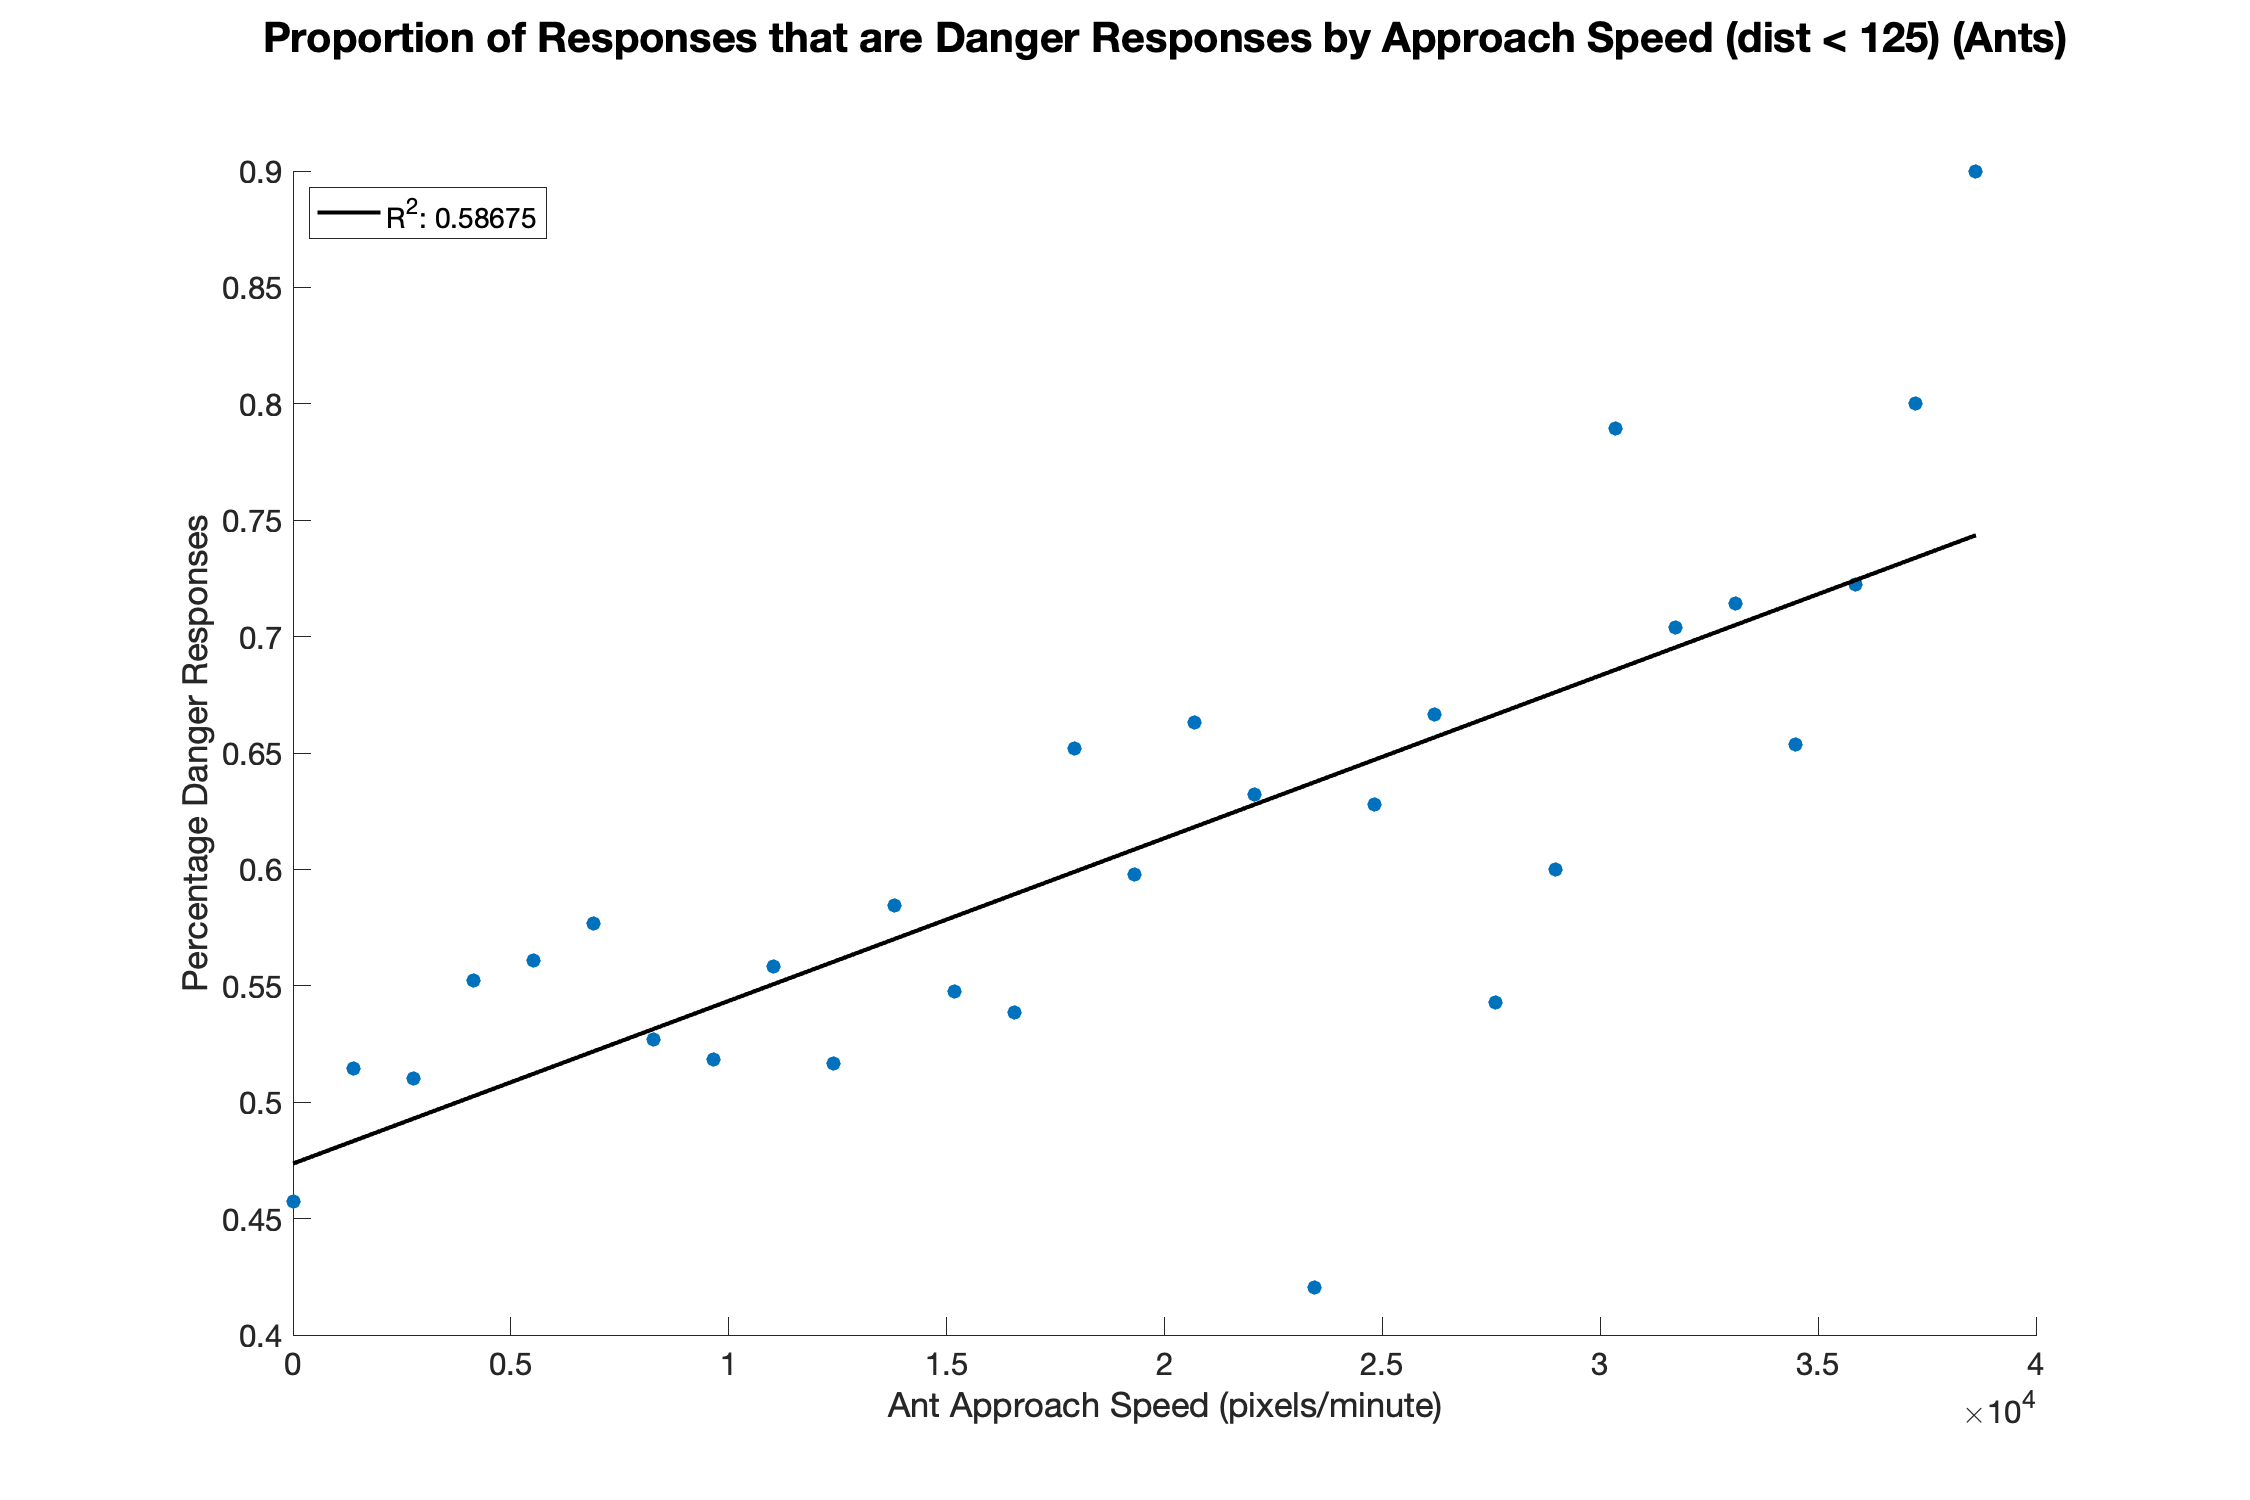
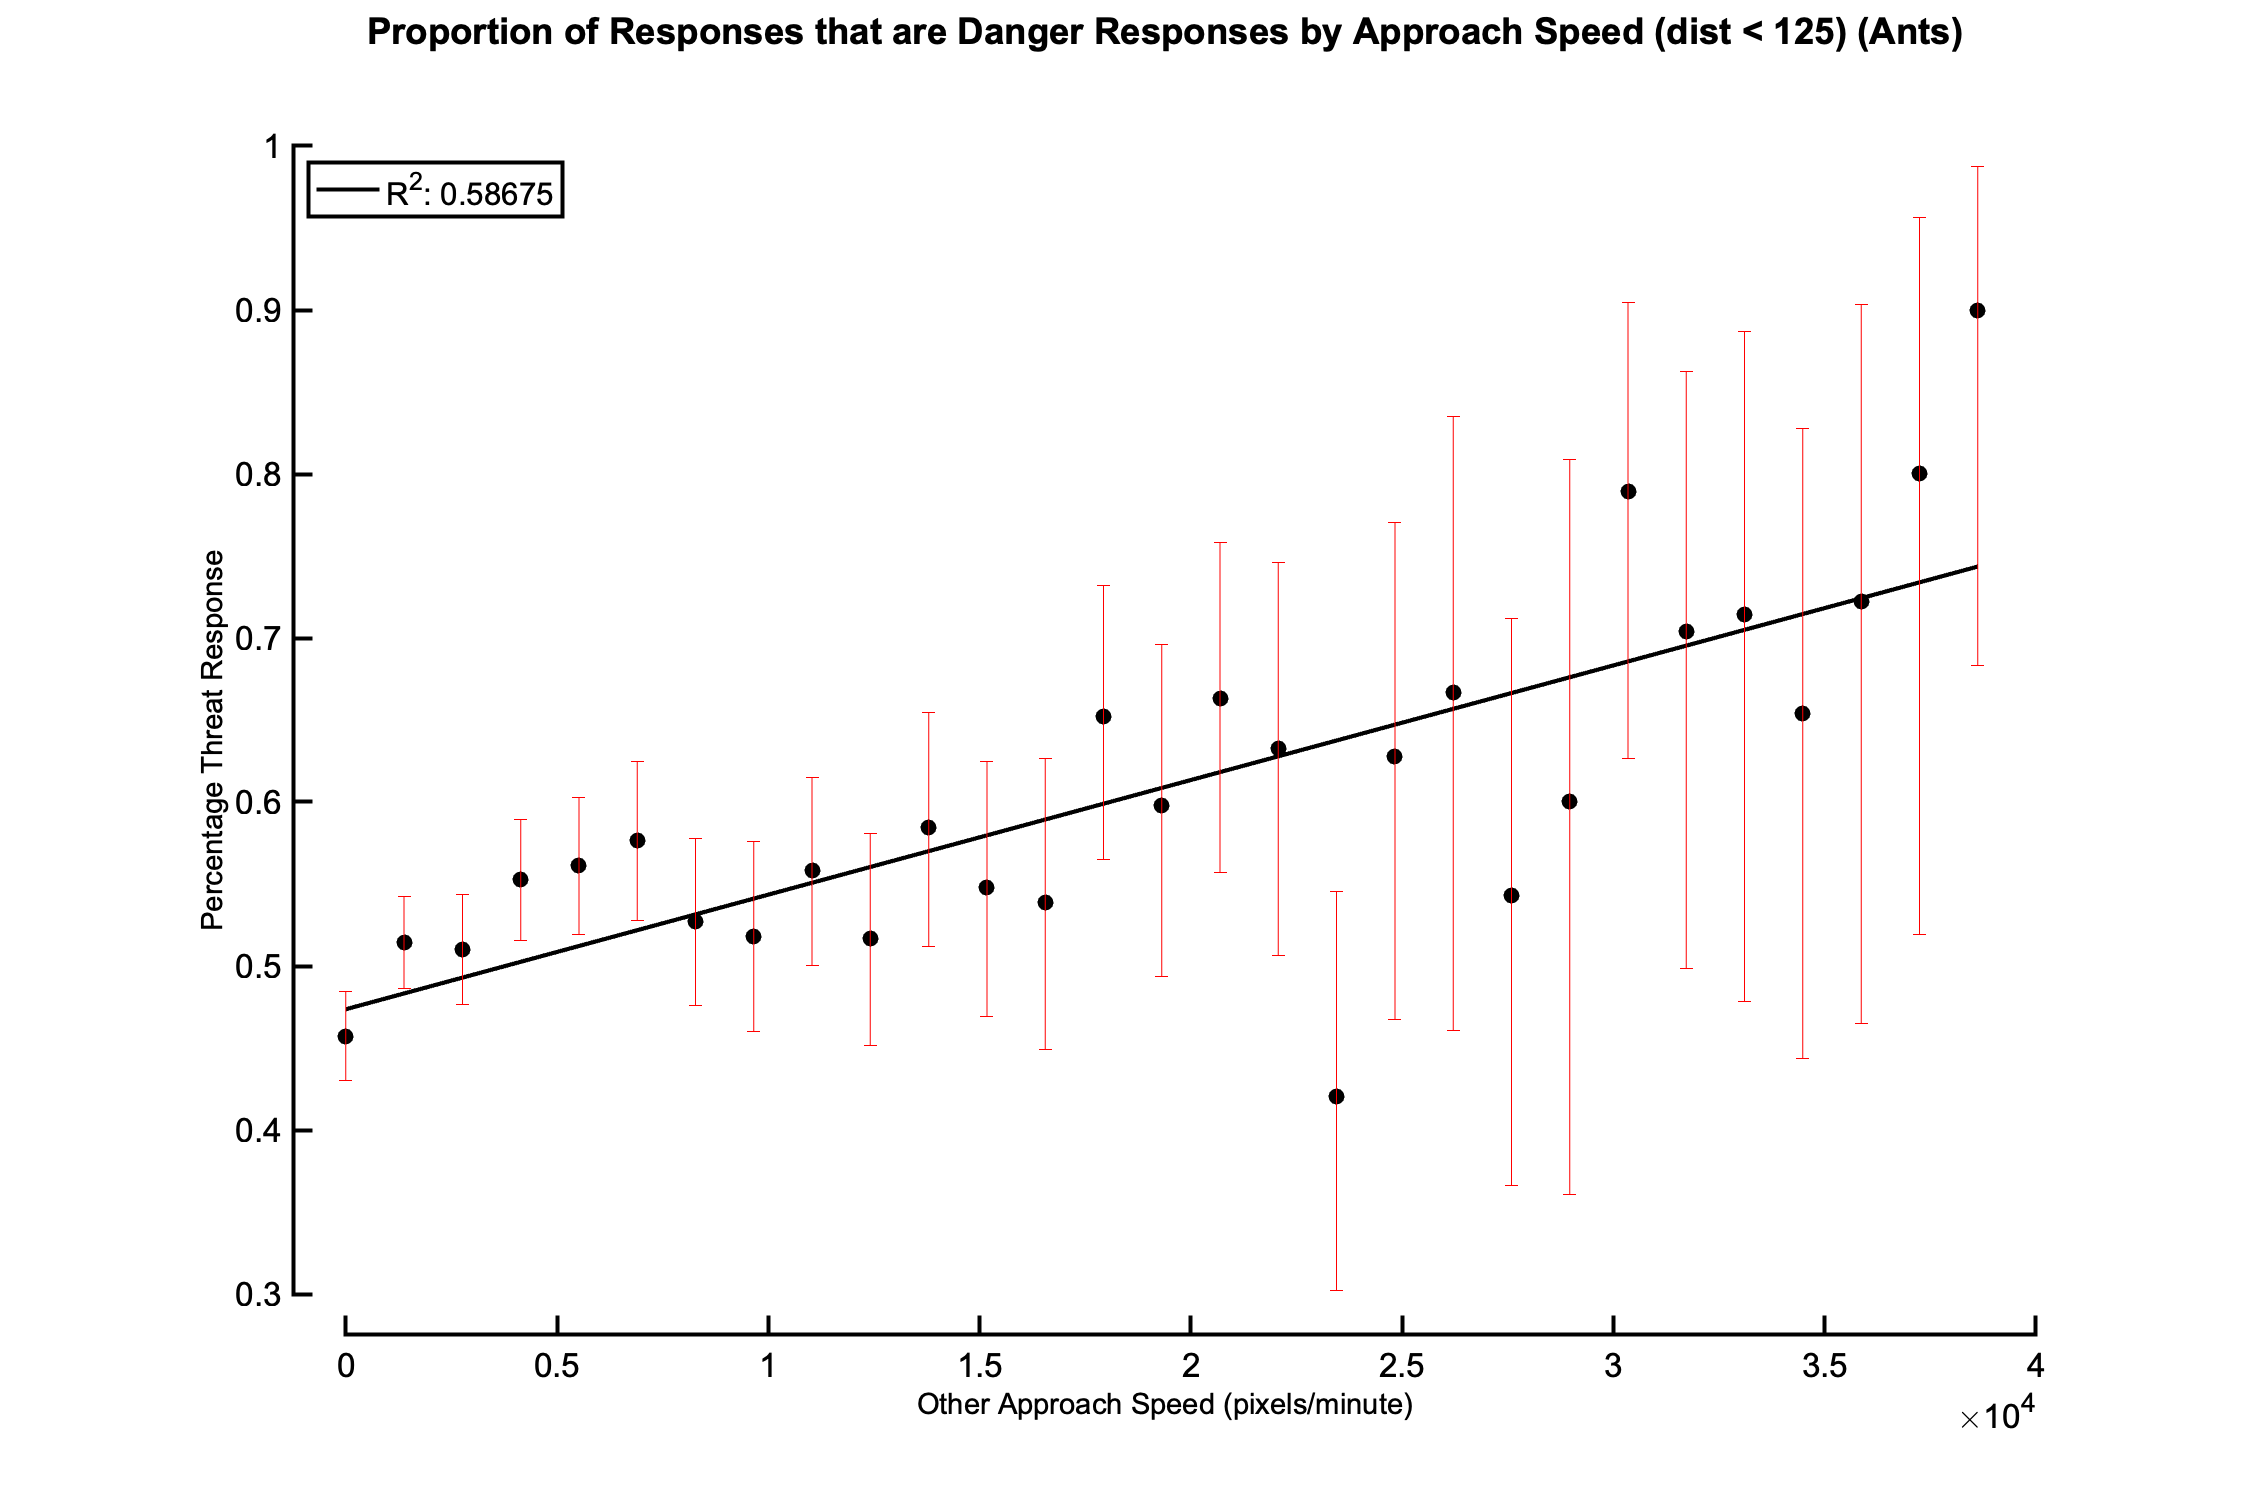
new

diff --git a/MATLAB Code/flex_vs_flee_heatmap.m b/MATLAB Code/flex_vs_flee_heatmap.m
@@ -1,6 +1,10 @@
 %We divide approach speed and orientation into 10 equal subdivisions each. 
 %At each combination of approach speed and orientation, how likely is a
 %beetle to flex vs flee?
+ant = ('Ant_long_long_interactions');
+other = ('Other_long_long_interactions')
+%pretty figure settings
+ 
 
 flex_interactions = ((flex_during < 1.75  | min_flex<1.75) & dal_velocity_after <= 20000);
 flee_interactions = (dal_velocity_after > 20000 & (flex_during >= 1.75 & flex_after >= 1.75 & min_flex >= 1.75));
@@ -19,15 +23,15 @@ for i = 1:29
     ori(i,:) = orientation > orientation_divs(i) & orientation <= orientation_divs(i+1);
     total_danger_response_app(i) = sum(flex_interactions & app(i,:)) + sum(flee_interactions & app(i,:)) + sum(both_interactions & app(i,:));
     total_app(i) = sum(app(i,:));
-    total_pos = sum(app(i,:) & orientation > 0);
-    total_neg = sum(app(i,:) & orientation <= 0);
+    total_pos(i) = sum(app(i,:) & orientation > 0);
+    total_neg(i) = sum(app(i,:) & orientation <= 0);
     flex_percentage_app(i) = sum(app(i,:) & (flex_interactions | both_interactions))/total_danger_response_app(i);
     flee_percentage_app(i) = sum(app(i,:)  &  (flee_interactions | both_interactions))/total_danger_response_app(i);
     both_percentage_app(i) = sum(app(i,:) & both_interactions)/total_danger_response_app(i);
     neither_percentage_app(i) = sum(app(i,:) & neither_interactions)/total_app(i);
     danger_percentage_app(i) = sum(app(i,:)  & ~neither_interactions)/total_app(i);
-    danger_percentage_app_pos(i) = sum(app(i,:)  & ~neither_interactions & orientation > 0)/total_pos;
-    danger_percentage_app_neg(i) = sum(app(i,:)  & ~neither_interactions & orientation <= 0)/total_neg;
+    danger_percentage_app_pos(i) = sum(app(i,:)  & ~neither_interactions & orientation > 0)/total_pos(i);
+    danger_percentage_app_neg(i) = sum(app(i,:)  & ~neither_interactions & orientation <= 0)/total_neg(i);
     flexes_by_app(i) = sum(app(i,:) & flex_interactions);
     flees_by_app(i) = sum(app(i,:) & flee_interactions);
     boths_by_app(i) = sum(app(i,:) & both_interactions);
@@ -61,67 +65,29 @@ all_by_app = [flex_percentage_app; flee_percentage_app; both_percentage_app; nei
 % end
 % surf(approach_divs(1:9),orientation_divs(1:9),flee_percentage)
 % colorbar
-set(0,'defaultAxesFontSize',15)
-fig = figure('units','inch','position',[0,0,15,10]);
-% danger_percentage_app_pos(isnan(danger_percentage_app_pos)) = 0;
-% danger_percentage_app_neg(isnan(danger_percentage_app_neg)) = 0;
-% subplot(1,2,1)
-% scatter(approach_divs(1:29),danger_percentage_app_pos, 50,'MarkerEdgeColor', 'red', 'MarkerFaceColor','red')
-% coeffs = polyfit(approach_divs(1:29), danger_percentage_app_pos,1);
-% fit = polyval(coeffs,[approach_divs(1),approach_divs(29)]);
-% grid on
-% hold on
-% plot([approach_divs(1),approach_divs(29)], fit, 'LineWidth' ,2,'Color','black')
-% title('Positive Orientation')
-% xlabel('Ant Approach Speed (pixels/minute)')
-% ylabel('Percentage Danger Response')
-% 
-% subplot(1,2,2)
-% scatter(approach_divs(1:29), danger_percentage_app_neg, 50,'MarkerEdgeColor', 'blue',"MarkerFaceColor",'blue')
-% coeffs = polyfit(approach_divs(1:29), danger_percentage_app_neg,1);
-% fit = polyval(coeffs,[approach_divs(1),approach_divs(29)])
-% grid on
-% hold on
-% plot([approach_divs(1),approach_divs(29)], fit, 'LineWidth' ,2,'Color','black')
-% title('Negative Orientation')
-% xlabel('Ant Approach Speed (pixels/minute)')
-% ylabel('Percentage Danger Response')
-% 
-% 
-% titles = "Proportion of Danger Responses by Ant Approach Speed (dist < 45), Divided by Orientation (Ants)"
-% sgtitle(titles,'FontSize',20)
 
+fig = figure('units','inch','position',[0,0,20,10]);
+danger_percentage_app_pos(isnan(danger_percentage_app_pos)) = 0;
+danger_percentage_app_neg(isnan(danger_percentage_app_neg)) = 0;
 
-scatter(approach_divs(1:29),danger_percentage_app,50,'filled')
-
-
-[coeffs,S] = polyfit(approach_divs(1:29), danger_percentage_app,1);
-fit = polyval(coeffs,approach_divs(1:29));
-SStot = sum((danger_percentage_app-mean(danger_percentage_app)).^2);                   
-SSres = sum((danger_percentage_app-fit).^2);                    
+subplot(1,2,1)
+% danger_percentage_app_pos([18,26]) = NaN
+scatter(approach_divs(~isnan(danger_percentage_app_pos)),danger_percentage_app_pos(~isnan(danger_percentage_app_pos)), 60,'MarkerEdgeColor', 'red', 'MarkerFaceColor','red')
+coeffs = polyfit(approach_divs((~isnan(danger_percentage_app_pos))), danger_percentage_app_pos(~isnan(danger_percentage_app_pos)),1);
+fit = polyval(coeffs,approach_divs(~isnan(danger_percentage_app_pos)));
+SStot = sum((danger_percentage_app_pos(~isnan(danger_percentage_app_pos))-mean(danger_percentage_app_pos(~isnan(danger_percentage_app_pos)))).^2);                   
+SSres = sum((danger_percentage_app_pos(~isnan(danger_percentage_app_pos))-fit).^2);                    
 Rsq = 1-SSres/SStot; 
-
-hold on
-plot(approach_divs(1:29), fit, 'LineWidth' ,2,'Color','black')
-L = legend('',['R^2: ' , num2str(Rsq)], 'Location','northwest', 'FontSize', 15);
+L = legend(['R^2: ' , num2str(Rsq)], 'Location','northwest', 'FontSize', 15);
 L.AutoUpdate = 'off';
-hold off
-
-[phat, pci] = binofit(total_danger_response_app, total_app,0.05)
-CI_max = pci(:,2) - danger_percentage_app';
-CI_min =  danger_percentage_app' - pci(:,1);
-
-
+ylim([0.2,1])
+grid on
 hold on
-errorbar(approach_divs(1:29),danger_percentage_app,CI_min,CI_max,'LineStyle','none')
-hold off
-
-titles = "Proportion of Responses that are Danger Responses by Approach Speed (50 < dist < 125) (Ants)"
-title(titles,newline,'FontSize',20)
+plot(approach_divs(~isnan(danger_percentage_app_pos)), fit, 'LineWidth' ,2,'Color','black')
+title('Positive Orientation')
 
 
- %pretty figure settings
-    offsetAxes(gca);
+   offsetAxes(gca);
     set(gca, ...
         'LineWidth', 2,...
         'XColor', 'k',...
@@ -129,8 +95,71 @@ title(titles,newline,'FontSize',20)
         'FontName', 'Arial',...
         'FontSize', 16,...
         'Box', 'off');
-    xlabel('Flex Percentage', 'FontSize', 14);
-    ylabel('Orientation', 'FontSize', 14);
+    xlabel('Ant Approach Speed (pixels/minute)', 'FontSize', 14);
+    ylabel('Percentage Threat Response', 'FontSize', 14);
     whitebg('white')
+
+subplot(1,2,2)
+scatter(approach_divs(1:29), danger_percentage_app_neg, 60,'MarkerEdgeColor', 'blue',"MarkerFaceColor",'blue')
+coeffs = polyfit(approach_divs(1:29), danger_percentage_app_neg,1);
+fit = polyval(coeffs,approach_divs(1:29));
+SStot = sum((danger_percentage_app_neg-mean(danger_percentage_app_neg)).^2);                   
+SSres = sum((danger_percentage_app_neg-fit).^2);                    
+Rsq = 1-SSres/SStot; 
+L = legend(['R^2: ' , num2str(Rsq)], 'Location','northwest', 'FontSize', 15);
+L.AutoUpdate = 'off';
+ylim([0.2,1])
+
+grid on
+hold on
+plot(approach_divs(1:29), fit, 'LineWidth' ,2,'Color','black')
+title('Negative Orientation')
+
+
+   offsetAxes(gca);
+    set(gca, ...
+        'LineWidth', 2,...
+        'XColor', 'k',...
+        'YColor', 'k',...
+        'FontName', 'Arial',...
+        'FontSize', 16,...
+        'Box', 'off');
+    xlabel('Ant Approach Speed (pixels/minute)', 'FontSize', 14);
+    ylabel('Percentage Threat Response', 'FontSize', 14);
+    whitebg('white')
+
+titles = "Proportion of Danger Responses by Ant Approach Speed (dist < 125) For Each Orientation (Ants)"
+sgtitle(titles,'FontSize',20)
+
+% 
+% scatter(approach_divs(1:29),danger_percentage_app,60,'filled','k')
+% danger_percentage_app(isnan(danger_percentage_app)) = 0;
+% 
+% [coeffs,S] = polyfit(approach_divs(1:29), danger_percentage_app,1);
+% fit = polyval(coeffs,approach_divs(1:29));
+% SStot = sum((danger_percentage_app-mean(danger_percentage_app)).^2);                   
+% SSres = sum((danger_percentage_app-fit).^2);                    
+% Rsq = 1-SSres/SStot; 
+% 
+% hold on
+% plot(approach_divs(1:29), fit, 'LineWidth' ,2,'Color','black')
+% L = legend('',['R^2: ' , num2str(Rsq),newline,], 'Location','northwest', 'FontSize', 15);
+% L.AutoUpdate = 'off';
+% hold off
+% 
+% [phat, pci] = binofit(total_danger_response_app, total_app,0.05)
+% CI_max = pci(:,2) - danger_percentage_app';
+% CI_min =  danger_percentage_app' - pci(:,1);
+% 
+% 
+% hold on
+% errorbar(approach_divs(1:29),danger_percentage_app,CI_min,CI_max,'LineStyle','none','Color','red')
+% hold off
+% 
+% titles = "Proportion of Responses that are Danger Responses by Approach Speed (dist < 125) (Ants)"
+% title(titles,newline,'FontSize',20)
+% % 
+
+ 
 
 % saveas(gcf,'/Users/jasonwong/Projects/neuroetho/Ant Graphs/'+ titles + '.png')

diff --git a/MATLAB Code/Jason_Analysis_Pipeline.m b/MATLAB Code/Jason_Analysis_Pipeline.m
@@ -17,8 +17,8 @@ other_velocity_after = [];
 other_orientation = [];
 min_flex = [];
 max_length = 0;
-for k = 1:size(ant_folder_nums,2)
-    organism = folders(ant_folder_nums(k)).name;
+for k = 1:size(other_folder_nums,2)
+    organism = folders(other_folder_nums(k)).name;
     load([path,'/',organism,'/',organism,'statistics']);
     load([path,'/',organism,'/',organism,'statisticslin']);
     
